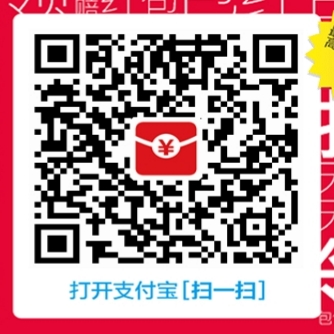
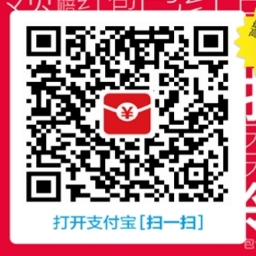
修改布局

diff --git a/README.md b/README.md
@@ -12,11 +12,11 @@
    所以在这里展示一下目前的成果。如果有个人想要使用未提供的字的路径的话，按每个字10元收取费用。
    请使用支付宝付款，并备注想要使用的字。
 
-   |![](https://raw.githubusercontent.com/yanzixiang/ILoveWrittingChineseCharacters/master/SK/891582546.jpg)|![](https://raw.githubusercontent.com/yanzixiang/ILoveWrittingChineseCharacters/master/SK/1580970624.jpg)|
+   |![](https://raw.githubusercontent.com/yanzixiang/ILoveWrittingChineseCharacters/master/SK/weixin.png)|![](https://raw.githubusercontent.com/yanzixiang/ILoveWrittingChineseCharacters/master/SK/891582546.jpg)|![](https://raw.githubusercontent.com/yanzixiang/ILoveWrittingChineseCharacters/master/SK/1580970624.jpg)|
 
    只要有一个人为某一个字付过款后，这个字的路径就会在这里上传好，之后其他人想要使用的话，可以直接取用。
 
 5. 对于想要使用全部路径的个人，在所有的汉字被付款之前，暂时无法提供。如果有企业对此感兴趣，请直接联系。
 6. 路径能用来干什么？可以用来生成刀路如上图所示，[也可以用来生成动画如下图所示](http://yanzixiang.github.io/animejs.html)。
 
-   |![](https://raw.githubusercontent.com/yanzixiang/ILoveWrittingChineseCharacters/master/GIF/燕子翔.gif)|![](https://raw.githubusercontent.com/yanzixiang/ILoveWrittingChineseCharacters/master/SK/weixin.png)|
+   ![](https://raw.githubusercontent.com/yanzixiang/ILoveWrittingChineseCharacters/master/GIF/燕子翔.gif)
